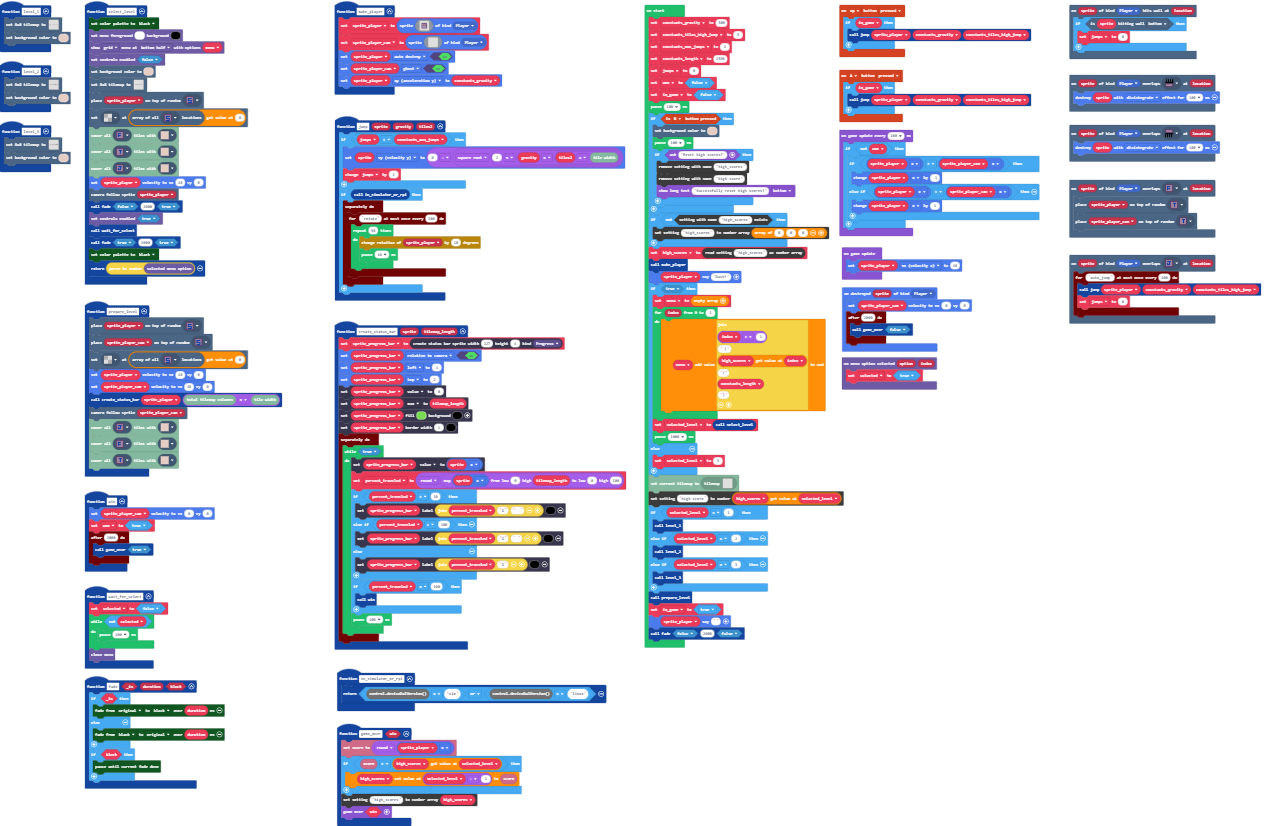
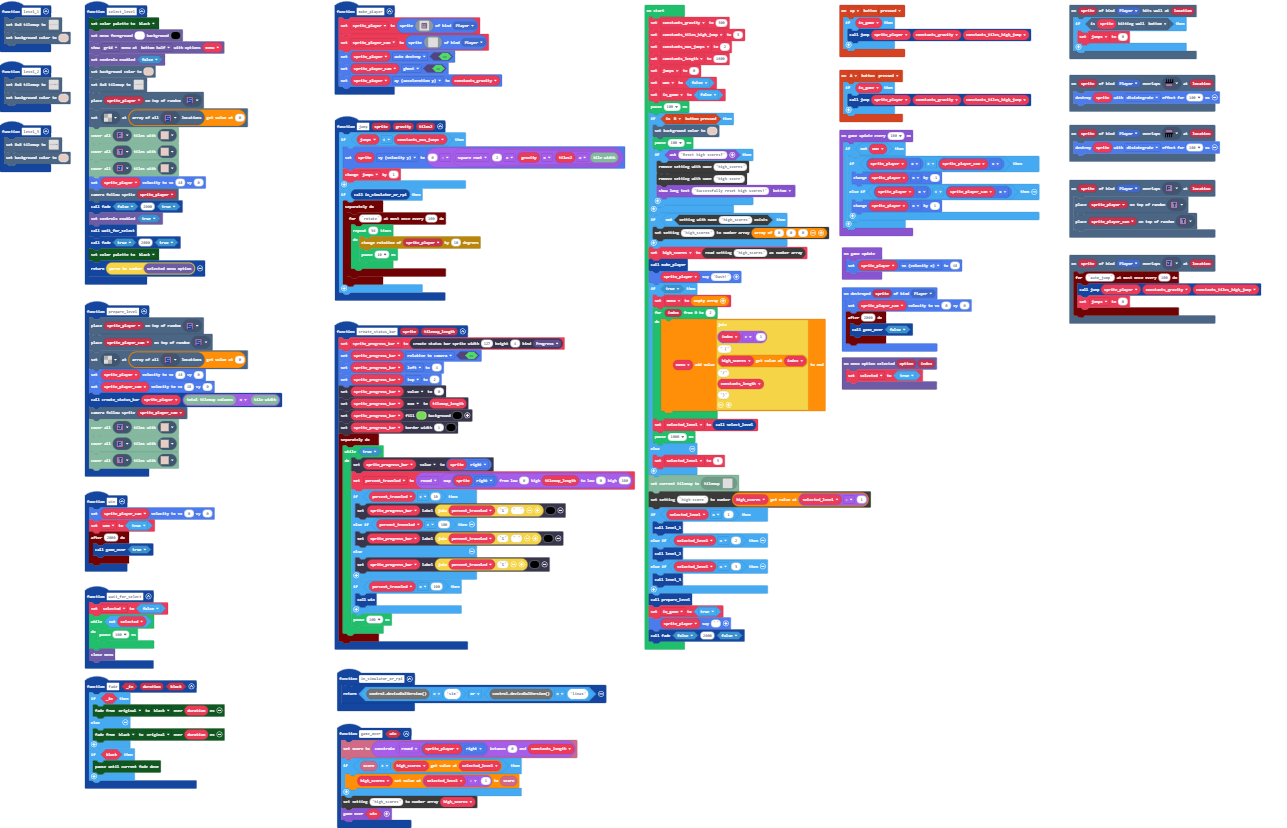
Fix wrong level issues

diff --git a/main.ts b/main.ts
@@ -37,8 +37,8 @@ function create_status_bar (sprite: Sprite, tilemap_length: number) {
     sprite_progress_bar.setBarBorder(1, 15)
     timer.background(function () {
         while (true) {
-            sprite_progress_bar.value = sprite.x
-            percent_traveled = Math.round(Math.map(sprite.x, 0, tilemap_length, 0, 100))
+            sprite_progress_bar.value = sprite.right
+            percent_traveled = Math.round(Math.map(sprite.right, 0, tilemap_length, 0, 100))
             if (percent_traveled < 10) {
                 sprite_progress_bar.setLabel("" + percent_traveled + "%" + "  ", 15)
             } else if (percent_traveled < 100) {
@@ -54,7 +54,7 @@ function create_status_bar (sprite: Sprite, tilemap_length: number) {
     })
 }
 function game_over (win2: boolean) {
-    info.setScore(Math.round(sprite_player.x))
+    info.setScore(Math.constrain(Math.round(sprite_player.right), 0, constants_length))
     if (info.score() > high_scores[selected_level]) {
         high_scores[selected_level - 1] = info.score()
     }
@@ -186,13 +186,14 @@ let high_scores: number[] = []
 let in_game = false
 let won = false
 let jumps = 0
+let constants_length = 0
 let constants_max_jumps = 0
 let constants_tiles_high_jump = 0
 let constants_gravity = 0
 constants_gravity = 300
 constants_tiles_high_jump = 3
 constants_max_jumps = 2
-let constants_length = 1596
+constants_length = 1600
 jumps = 0
 won = false
 in_game = false
@@ -223,7 +224,7 @@ if (true) {
     selected_level = 3
 }
 tiles.loadMap(tiles.createMap(tilemap`level12`))
-blockSettings.writeNumber("high-score", high_scores[selected_level])
+blockSettings.writeNumber("high-score", high_scores[selected_level - 1])
 if (selected_level == 1) {
     level_1()
 } else if (selected_level == 2) {
